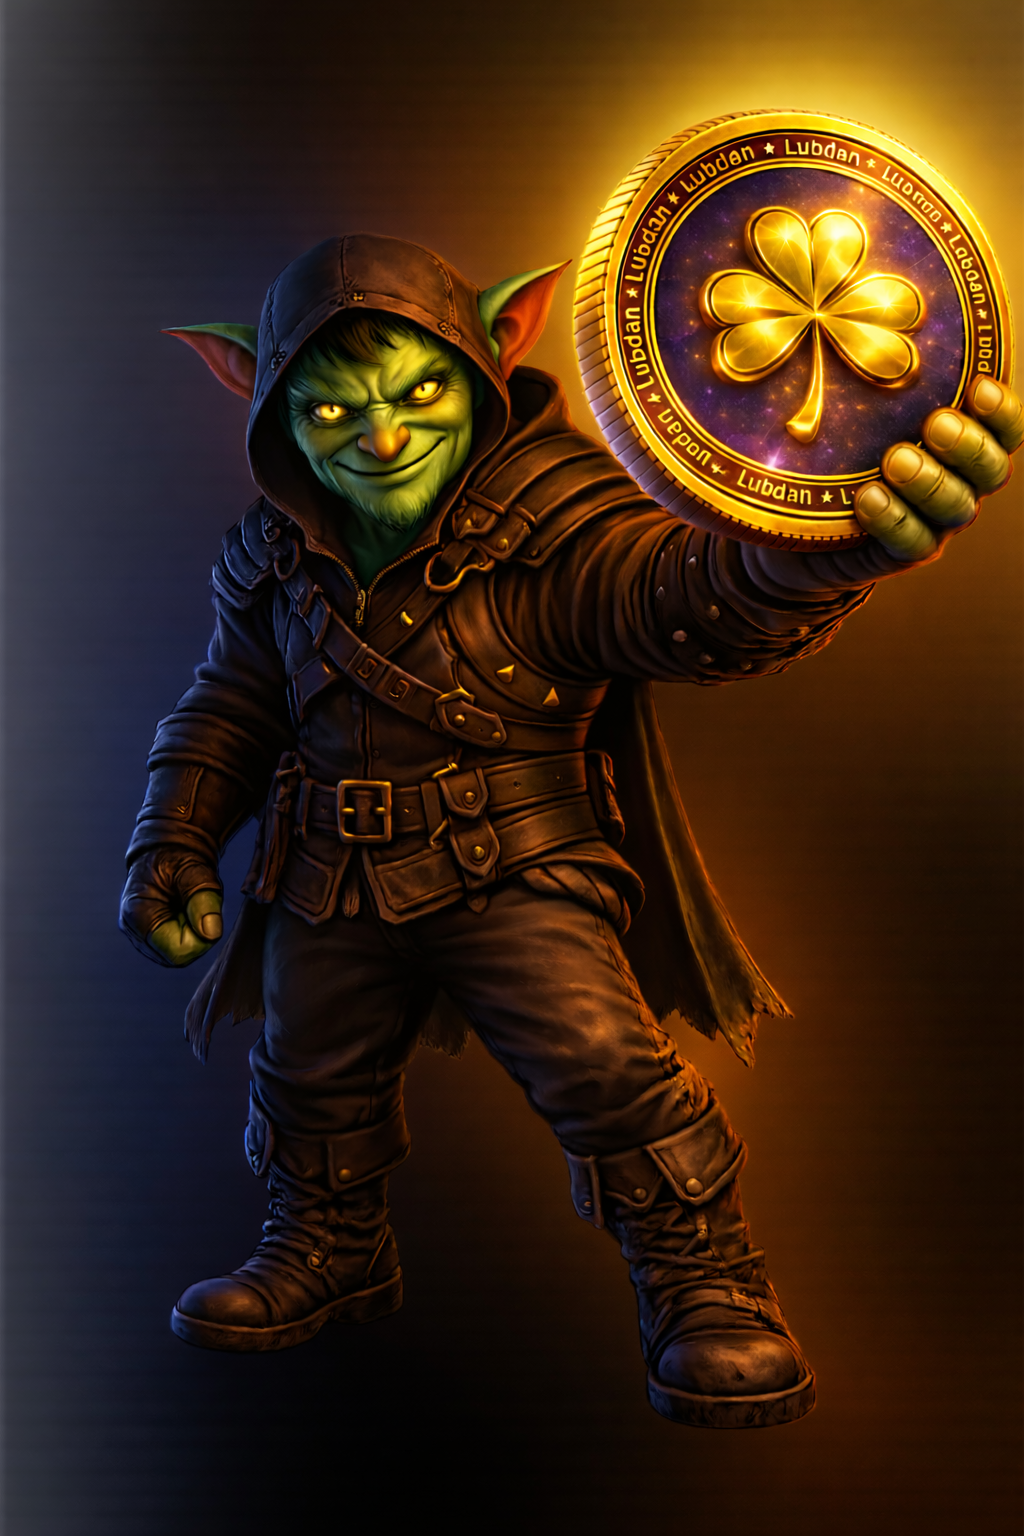
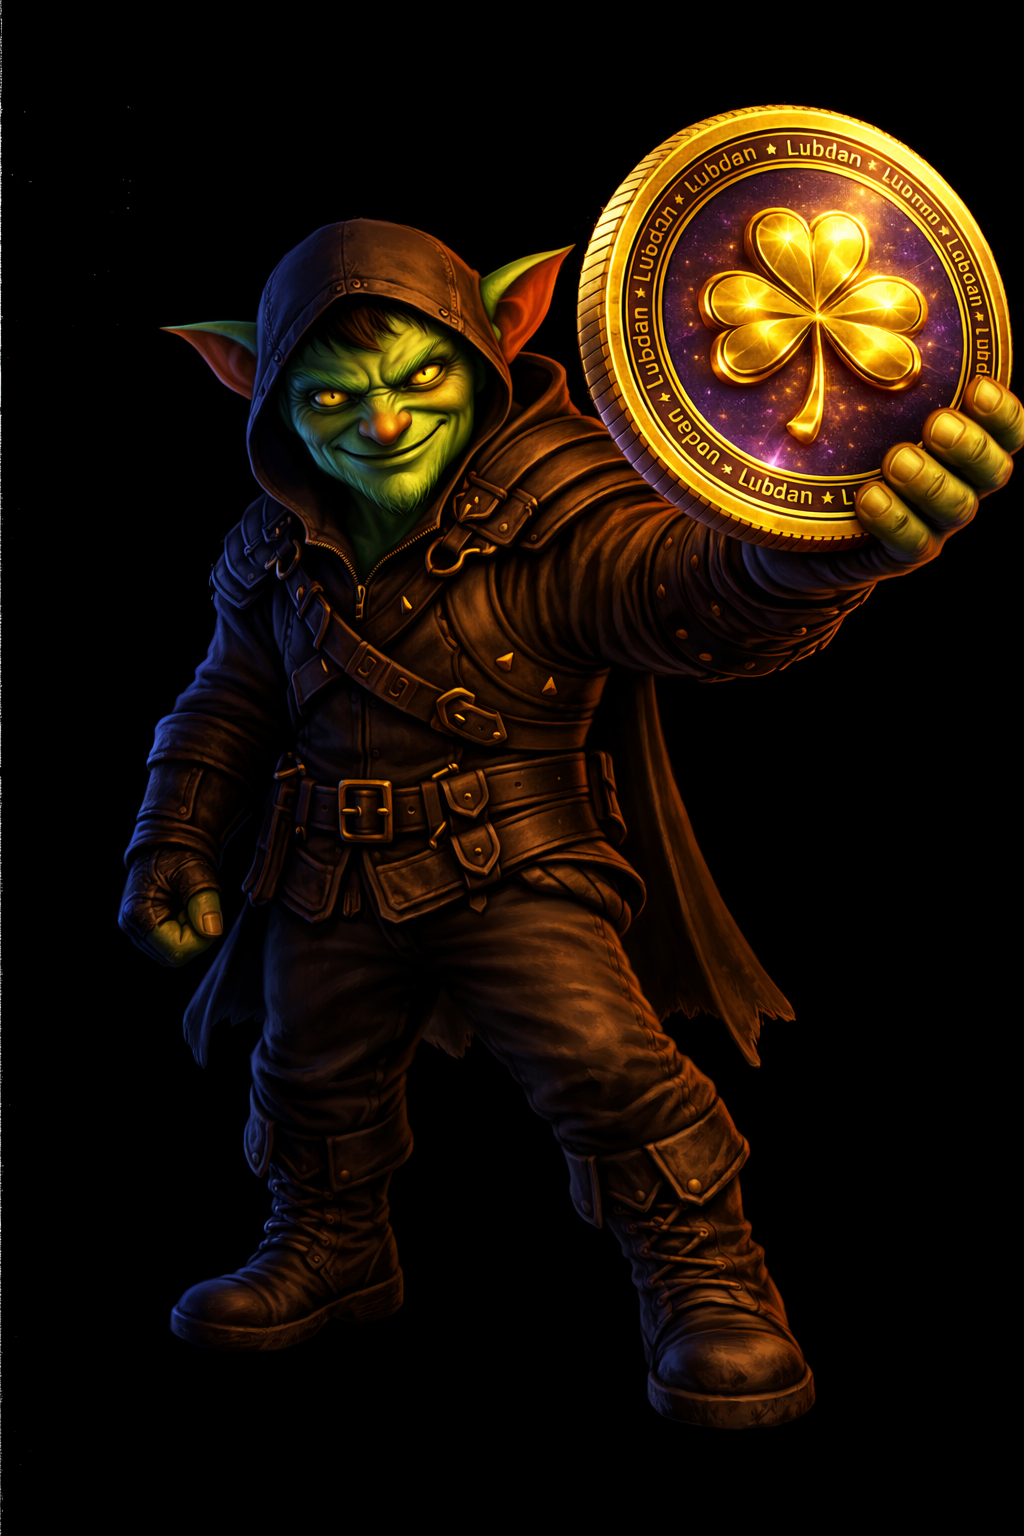
Melhorias: Novo duende, remover brilho verde, moeda a rodar, header melhorado com cores premium

diff --git a/client/src/components/LayoutNoWeb3.tsx b/client/src/components/LayoutNoWeb3.tsx
@@ -44,14 +44,14 @@ export default function LayoutNoWeb3({ children }: { children: React.ReactNode }
       {/* Header */}
       <header
         className={cn(
-          "fixed top-0 left-0 right-0 z-50 transition-all duration-300 border-b border-transparent",
-          scrolled ? "bg-background/80 backdrop-blur-md border-border/30 py-3" : "bg-transparent py-5"
+          "fixed top-0 left-0 right-0 z-50 transition-all duration-300 border-b",
+          scrolled ? "bg-gradient-to-r from-background/95 via-background/90 to-background/95 backdrop-blur-xl border-primary/40 py-3 shadow-lg shadow-primary/10" : "bg-gradient-to-r from-background/80 via-background/70 to-background/80 border-primary/20 py-5 shadow-md shadow-primary/5"
         )}
       >
         <div className="container flex items-center justify-between">
           <Link href="/">
             <a className="flex items-center gap-3 group">
-              <div className="relative w-10 h-10">
+              <div className="relative w-10 h-10 coin-spin">
                 <img 
                   src="/images/token.png" 
                   alt="Lubdan Logo" 

diff --git a/client/src/components/Mascot3D.tsx b/client/src/components/Mascot3D.tsx
@@ -3,16 +3,11 @@ import { motion } from "framer-motion";
 export default function Mascot3D() {
   return (
     <div className="relative w-full max-w-[400px] lg:max-w-[600px] aspect-[4/5] flex items-center justify-center mx-auto">
-      {/* Glowing aura behind mascot */}
-      <div className="absolute inset-0 bg-green-500/20 rounded-full blur-[100px] animate-pulse" />
-      <div className="absolute inset-0 bg-green-400/10 rounded-full blur-[80px]" />
-      <div className="absolute inset-0 bg-yellow-500/10 rounded-full blur-[60px]" />
-      
       {/* Mascot Image with floating animation */}
       <motion.img 
         src="/leprechaun-lubdan.png" 
         alt="Lubdan Mascot" 
-        className="relative w-full h-full object-contain drop-shadow-[0_0_40px_rgba(0,255,65,0.3)] z-20"
+        className="relative w-full h-full object-contain z-20"
         animate={{
           y: [0, -15, 0],
         }}
@@ -21,7 +16,7 @@ export default function Mascot3D() {
           repeat: Infinity,
           ease: "easeInOut"
         }}
-      />
+      </motion.img>
     </div>
   );
 }

diff --git a/client/src/index.css b/client/src/index.css
@@ -278,10 +278,12 @@
   background-clip: text;
   -webkit-text-fill-color: transparent;
   animation: gradient-shift 4s ease infinite;
-  text-shadow: 0 0 30px rgba(255, 215, 0, 0.4);
-  filter: drop-shadow(0 0 15px rgba(255, 215, 0, 0.3));
-  letter-spacing: 0.15em;
+  filter: drop-shadow(0 0 20px rgba(255, 215, 0, 0.5)) drop-shadow(0 0 10px rgba(255, 165, 0, 0.4));
+  letter-spacing: 0.2em;
   font-weight: 900;
+  text-transform: uppercase;
+  font-size: 1.5em;
+  font-style: italic;
 }
 
 @keyframes gradient-shift {
@@ -340,4 +342,19 @@
   100% {
     left: 100%;
   }
+}
+
+/* Coin Rotation Animation */
+@keyframes spin-coin {
+  0% {
+    transform: rotateY(0deg);
+  }
+  100% {
+    transform: rotateY(360deg);
+  }
+}
+
+.coin-spin {
+  animation: spin-coin 3s linear infinite;
+  transform-style: preserve-3d;
 }
